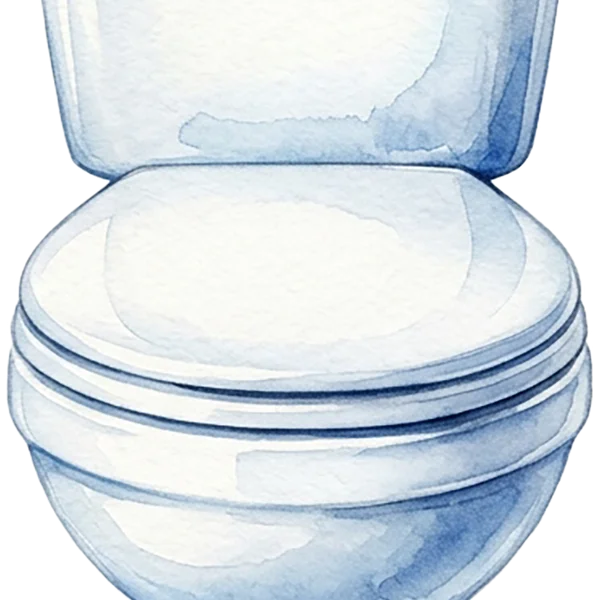
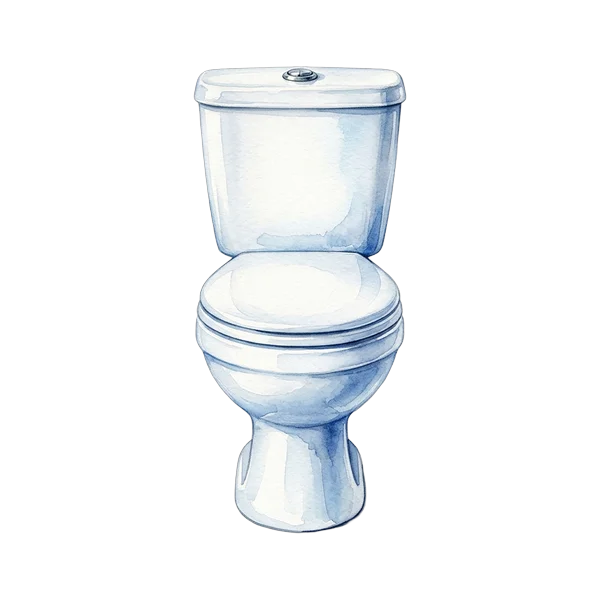
fix: toilet2 et voiture bien cadrées avec marge, cache-bust v125

diff --git a/templates/menu.html b/templates/menu.html
@@ -98,7 +98,7 @@
     <!-- Préchargement des images des pièces (critical path) -->
     {% for room in custom_rooms %}
     {% if room.image and not room.image.startswith('data:') %}
-    <link rel="preload" as="image" href="{{ url_for('static', filename=room.image) }}?v=124">
+    <link rel="preload" as="image" href="{{ url_for('static', filename=room.image) }}?v=125">
     {% endif %}
     {% endfor %}
     <script>
@@ -1944,7 +1944,7 @@ function sendMalus(reason, points){
                                         </div>
                                         {% else %}
                                         <picture>
-                                            <img src="{% if room.image and room.image.startswith('data:') %}{{ room.image }}{% else %}{{ url_for('static', filename=room.image) }}?v=124{% endif %}" alt="{{ room.name }}" fetchpriority="high" decoding="async" loading="eager">
+                                            <img src="{% if room.image and room.image.startswith('data:') %}{{ room.image }}{% else %}{{ url_for('static', filename=room.image) }}?v=125{% endif %}" alt="{{ room.name }}" fetchpriority="high" decoding="async" loading="eager">
                                         </picture>
                                         {% endif %}
                                         <span class="room-mission-dot"
